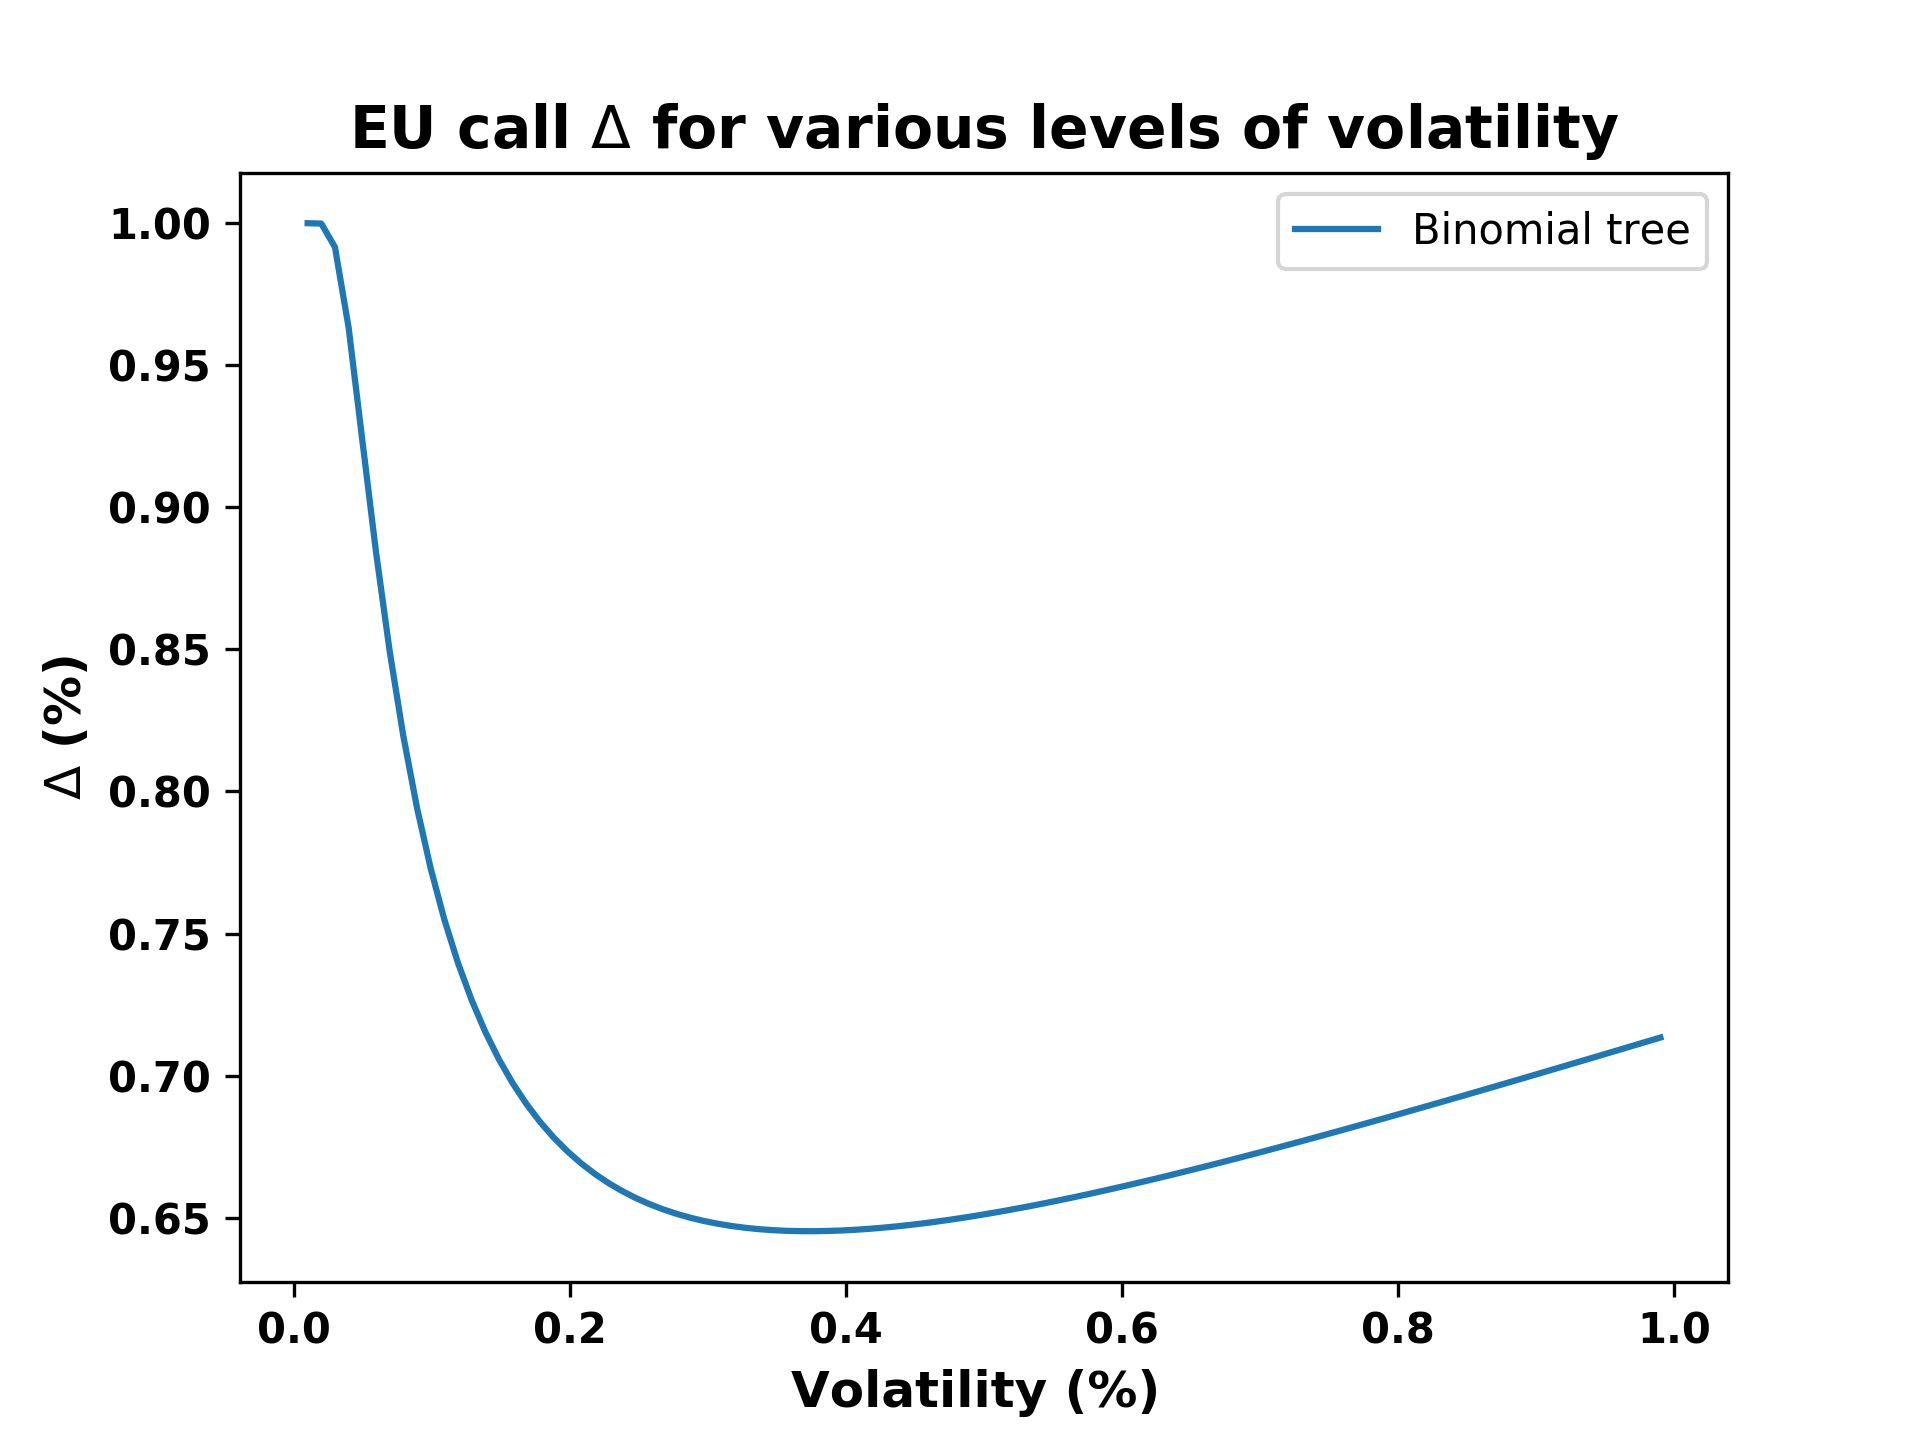
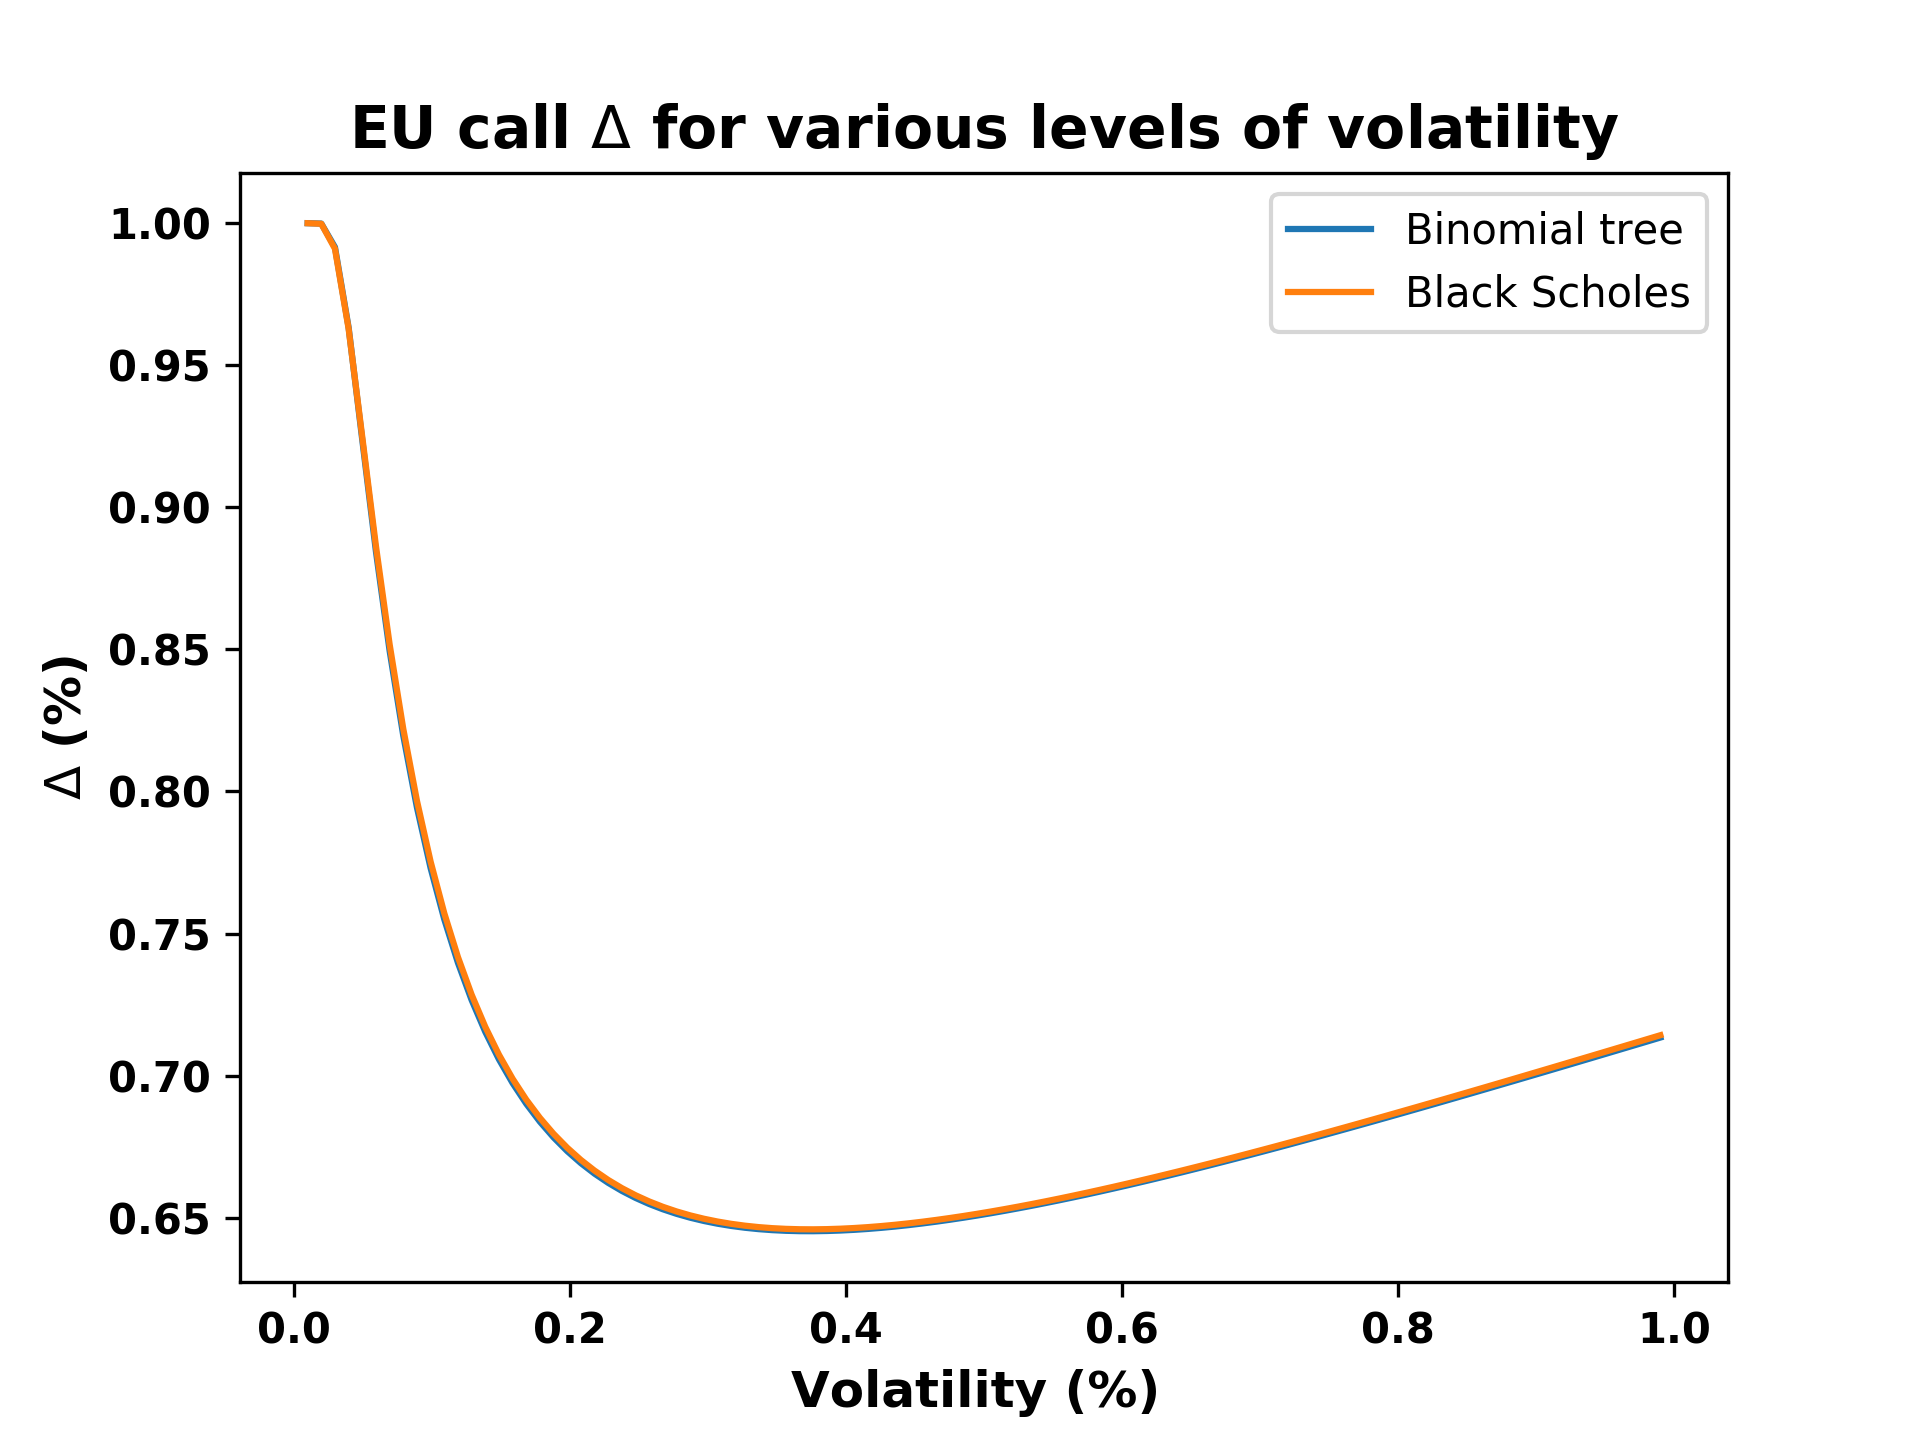
- Changed some figures and parallelised the loop for ex 1.2

diff --git a/Assignment 1/helper.py b/Assignment 1/helper.py
@@ -3,6 +3,13 @@ import matplotlib.pyplot as plt
 from collections import defaultdict
 from Binomial_tree import BinTreeOption, BlackScholes
 import time
+import tqdm
+import multiprocessing
+
+global progress_bar
+
+
+
 
 def binomial_tree_1(N, T, S, K, r,market,option_type,save_plot=False):
     '''
@@ -46,7 +53,18 @@ def binomial_tree_1(N, T, S, K, r,market,option_type,save_plot=False):
     plt.close()
 
 
-def binomial_tree_2( T, S, K, r, sigma, market, option_type,save_plot=False):
+
+steps = list(range(20, 500,5))
+progress_bar = tqdm.tqdm(total=len(steps))
+
+def worker(tree):
+    progress_bar.update(1)
+    return tree.determine_price()
+
+
+
+
+def binomial_tree_2( T, S, K, r, sigma, market, option_type,save_plot=False,run_time=True):
     '''
     :param T: period
     :param S: stock price
@@ -58,15 +76,26 @@ def binomial_tree_2( T, S, K, r, sigma, market, option_type,save_plot=False):
     '''
 
     # # Analyse time steps
-    trees=[]
-    running_time=[]
-    steps = list(range(1, 100))
-    for step in steps:
-        start_time=time.time()
-        trees.append(BinTreeOption(step, T, S, sigma, r, K, market, option_type))
-        running_time.append((time.time()-start_time)*100)
 
-    prices_trees = [tree.determine_price() for tree in trees]
+    steps = list(range(20, 500,5))
+
+    parralel_time=time.time()
+
+
+    trees = [
+        BinTreeOption(step, T, S, sigma, r, K, market, option_type)
+        for step in steps
+    ]
+    NUM_CORE = 3
+    pool = multiprocessing.Pool(NUM_CORE)
+    prices_trees = pool.map(worker, ((tree) for tree in trees))
+    pool.close()
+    pool.join()
+
+    print("parallel time ",time.time()-parralel_time)
+
+
+
 
     bs = BlackScholes(T, S, K, r, sigma)
     if option_type=='call':
@@ -90,19 +119,37 @@ def binomial_tree_2( T, S, K, r, sigma, market, option_type,save_plot=False):
         plt.savefig("figures/"+market+"_"+option_type+"_time_steps",dpi=300)
 
 
-    plt.figure()
-    plt.plot(steps, running_time, label="Running time")
-    plt.xlabel("Time steps (a.u.)",fontsize=12,fontweight='bold')
-    plt.ylabel("Running Time (ms)",fontsize=12,fontweight='bold')
-    plt.xticks(fontweight='bold')
-    plt.yticks(fontweight='bold')
-    plt.title("Running time vs. Steps",fontsize=14,fontweight='bold')
-    if save_plot:
-        plt.savefig("figures/"+market+"_"+option_type+"_running_time",dpi=300)
+    ### Get the running ###
+
+    if run_time:
+        repetition = 20
+        running_time_matrix = np.zeros((len(steps) + 1, repetition))
+        steps = list(range(1, 100))
+        for i in range(repetition):
+            for step in steps:
+                start_time=time.time()
+                tree =BinTreeOption(step, T, S, sigma, r, K, market, option_type)
+                running_time=(time.time()-start_time)*100
+                running_time_matrix[step][i]=running_time
+
+        mean_running_time=np.mean(running_time_matrix,1)
+        mean_running_time=np.delete(mean_running_time,0)
+
+        plt.figure()
+        plt.plot(steps, mean_running_time, label="Running time")
+        plt.xlabel("Time steps (a.u.)",fontsize=12,fontweight='bold')
+        plt.ylabel("Running Time (ms)",fontsize=12,fontweight='bold')
+        plt.legend()
+        plt.xticks(fontweight='bold')
+        plt.yticks(fontweight='bold')
+        plt.title("Running time vs. Steps",fontsize=14,fontweight='bold')
+        if save_plot:
+            plt.savefig("figures/"+market+"_"+option_type+"_running_time",dpi=300)
 
 
-    plt.show()
-    plt.close()
+        plt.show()
+        plt.close()
+
 
 def binomial_tree_3(N,T, S, K, r, market, option_type,save_plot=True):
     '''
@@ -128,18 +175,13 @@ def binomial_tree_3(N,T, S, K, r, market, option_type,save_plot=True):
     call_prices = defaultdict(list)
     for tree, bs in zip(trees, bs_list):
         call_prices["Binomial tree"].append(tree.determine_price())
-        call_prices["Black Scholes"].append(bs.create_hedge())
-
-    for i in bs_list:
-
-        print(i.delta_list[-1])
 
 
 
     # # Make plot
     plt.figure()
     plt.plot(sigmas, [i[1] for i in call_prices["Binomial tree"]], label="Binomial tree")
-    #plt.plot(sigmas, call_delta["Black Scholes"], label="Black Scholes")
+    plt.plot(sigmas, [i[2] for i in call_prices["Binomial tree"]], label="Black Scholes")
     plt.xlabel("Volatility (%) ",fontsize=12,fontweight='bold')
     plt.ylabel(r"$\Delta$ (%)",fontsize=12,fontweight='bold')
     plt.xticks(fontweight='bold')

diff --git a/Assignment 1/Binomial_tree.py b/Assignment 1/Binomial_tree.py
@@ -227,7 +227,7 @@ class BlackScholes:
             t += dt
 
         # profit += prev * price  # verkoop huidige portfolie
-        print('p ',profit)
+        #print('p ',profit)
 
         if hedge_setting.lower() == 'call':
             profit += (-delta) * price # koop resterende deel
@@ -242,10 +242,10 @@ class BlackScholes:
             return None
 
         # For testing
-        print('price', price)
-        print('k', self.K)
-        print('profit', profit)
-        print('put', self.put_price())
+       # print('price', price)
+       # print('k', self.K)
+       # print('profit', profit)
+       # print('put', self.put_price())
 
         self.delta_list = delta_list
         self.x_hedge = x_hedge

diff --git a/Assignment 1/main.py b/Assignment 1/main.py
@@ -87,11 +87,11 @@ import helper as helper
 #helper.binomial_tree_1(50, 1, 100, 99, 0.06,'EU',"put",save_plot=True)
 
 # exercise 1.2
-#helper.binomial_tree_2(1, 100, 99, 0.06, 0.2,'EU',"call",save_plot=True)
+p=helper.binomial_tree_2(1, 100, 99, 0.06, 0.2,'EU',"call",save_plot=True,run_time=False)
 
 
 # exercise 1.3
-helper.binomial_tree_3(50,1, 100, 99, 0.06,'EU',"call",save_plot=True)
+#helper.binomial_tree_3(50,1, 100, 99, 0.06,'EU',"call",save_plot=True)
 
 # exercise 1.4 is the same as 1.1 with different arguments
 #helper.binomial_tree_1(50, 1, 100, 99, 0.06,0.2,'USA',"put",save_plot=True)
